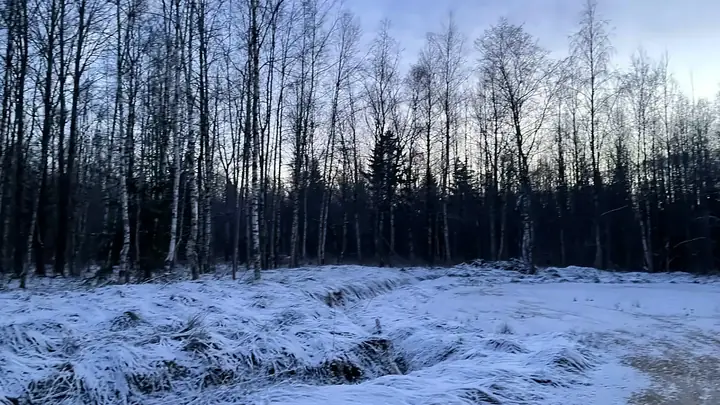
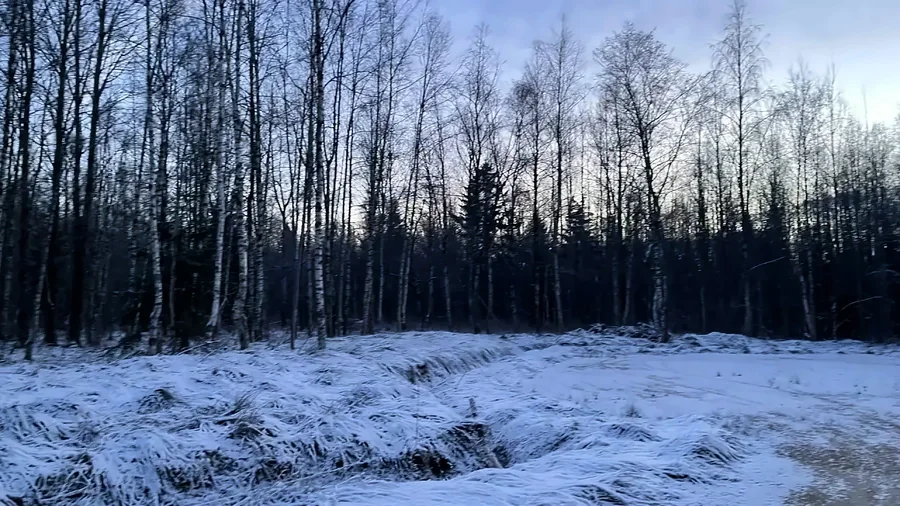
Фото галереи и плиток в большем разрешении и качестве
Весенние — до 2400 px из оригиналов HEIC, сжатие мягче (q84);
ширины в srcset приведены к реальным размерам файлов.

Claude-Session: https://claude.ai/code/session_019QjF2JEJJxfetuhCn2BZME

diff --git a/index.html b/index.html
@@ -80,11 +80,11 @@
       <div class="tile__text"><h3>Соседи</h3><p>Уже построились, обустроили участки и сделали ландшафтный дизайн</p></div>
     </article>
     <article class="tile reveal">
-      <img class="tile__media" loading="lazy" src="assets/img/silence-s.webp" srcset="assets/img/silence-s.webp 720w, assets/img/silence.webp 1400w" sizes="(min-width: 700px) 30vw, 100vw" alt="Летний луг с ромашками у берёз">
+      <img class="tile__media" loading="lazy" src="assets/img/silence-s.webp" srcset="assets/img/silence-s.webp 507w, assets/img/silence.webp 1126w" sizes="(min-width: 700px) 30vw, 100vw" alt="Летний луг с ромашками у берёз">
       <div class="tile__text"><h3>Тишина</h3><p>Ни города, ни трассы — только птицы и ветер в берёзах</p></div>
     </article>
     <article class="tile tile--top reveal">
-      <img class="tile__media" loading="lazy" src="assets/img/orzhitsy-s.webp" srcset="assets/img/orzhitsy-s.webp 720w, assets/img/orzhitsy.webp 1400w" sizes="(min-width: 700px) 30vw, 100vw" alt="Въезд в Оржицы">
+      <img class="tile__media" loading="lazy" src="assets/img/orzhitsy-s.webp" srcset="assets/img/orzhitsy-s.webp 900w, assets/img/orzhitsy.webp 2000w" sizes="(min-width: 700px) 30vw, 100vw" alt="Въезд в Оржицы">
       <div class="tile__text"><h3>Рядом Оржицы</h3><p>Школа, детские сады, амбулатория и магазины — около километра</p></div>
     </article>
     <article class="tile reveal">
@@ -191,19 +191,19 @@
     <button type="button" role="tab" aria-selected="false" data-season="winter">Зима</button>
   </div>
   <div class="season" data-season="spring" hidden>
-      <img loading="lazy" src="assets/img/spring-1-s.webp" srcset="assets/img/spring-1-s.webp 720w, assets/img/spring-1.webp 1600w" sizes="(min-width: 700px) 33vw, 100vw" alt="">
-      <img loading="lazy" src="assets/img/spring-2-s.webp" srcset="assets/img/spring-2-s.webp 720w, assets/img/spring-2.webp 1600w" sizes="(min-width: 700px) 33vw, 100vw" alt="">
-      <img loading="lazy" src="assets/img/spring-3-s.webp" srcset="assets/img/spring-3-s.webp 720w, assets/img/spring-3.webp 1600w" sizes="(min-width: 700px) 33vw, 100vw" alt="">
+      <img loading="lazy" src="assets/img/spring-1-s.webp" srcset="assets/img/spring-1-s.webp 900w, assets/img/spring-1.webp 2400w" sizes="(min-width: 700px) 33vw, 100vw" alt="">
+      <img loading="lazy" src="assets/img/spring-2-s.webp" srcset="assets/img/spring-2-s.webp 506w, assets/img/spring-2.webp 1350w" sizes="(min-width: 700px) 33vw, 100vw" alt="">
+      <img loading="lazy" src="assets/img/spring-3-s.webp" srcset="assets/img/spring-3-s.webp 506w, assets/img/spring-3.webp 1350w" sizes="(min-width: 700px) 33vw, 100vw" alt="">
   </div>
   <div class="season" data-season="summer">
-      <img loading="lazy" src="assets/img/summer-1-s.webp" srcset="assets/img/summer-1-s.webp 720w, assets/img/summer-1.webp 1600w" sizes="(min-width: 700px) 33vw, 100vw" alt="">
-      <img loading="lazy" src="assets/img/summer-2-s.webp" srcset="assets/img/summer-2-s.webp 720w, assets/img/summer-2.webp 1600w" sizes="(min-width: 700px) 33vw, 100vw" alt="">
-      <img loading="lazy" src="assets/img/summer-3-s.webp" srcset="assets/img/summer-3-s.webp 720w, assets/img/summer-3.webp 1600w" sizes="(min-width: 700px) 33vw, 100vw" alt="">
+      <img loading="lazy" src="assets/img/summer-1-s.webp" srcset="assets/img/summer-1-s.webp 517w, assets/img/summer-1.webp 1378w" sizes="(min-width: 700px) 33vw, 100vw" alt="">
+      <img loading="lazy" src="assets/img/summer-2-s.webp" srcset="assets/img/summer-2-s.webp 900w, assets/img/summer-2.webp 2400w" sizes="(min-width: 700px) 33vw, 100vw" alt="">
+      <img loading="lazy" src="assets/img/summer-3-s.webp" srcset="assets/img/summer-3-s.webp 507w, assets/img/summer-3.webp 1351w" sizes="(min-width: 700px) 33vw, 100vw" alt="">
   </div>
   <div class="season" data-season="winter" hidden>
-      <img loading="lazy" src="assets/img/winter-1-s.webp" srcset="assets/img/winter-1-s.webp 720w, assets/img/winter-1.webp 1600w" sizes="(min-width: 700px) 33vw, 100vw" alt="">
-      <img loading="lazy" src="assets/img/winter-2-s.webp" srcset="assets/img/winter-2-s.webp 720w, assets/img/winter-2.webp 1600w" sizes="(min-width: 700px) 33vw, 100vw" alt="">
-      <img loading="lazy" src="assets/img/winter-3-s.webp" srcset="assets/img/winter-3-s.webp 720w, assets/img/winter-3.webp 1600w" sizes="(min-width: 700px) 33vw, 100vw" alt="">
+      <img loading="lazy" src="assets/img/winter-1-s.webp" srcset="assets/img/winter-1-s.webp 900w, assets/img/winter-1.webp 2400w" sizes="(min-width: 700px) 33vw, 100vw" alt="">
+      <img loading="lazy" src="assets/img/winter-2-s.webp" srcset="assets/img/winter-2-s.webp 900w, assets/img/winter-2.webp 2400w" sizes="(min-width: 700px) 33vw, 100vw" alt="">
+      <img loading="lazy" src="assets/img/winter-3-s.webp" srcset="assets/img/winter-3-s.webp 900w, assets/img/winter-3.webp 2400w" sizes="(min-width: 700px) 33vw, 100vw" alt="">
   </div>
 </section>
 
